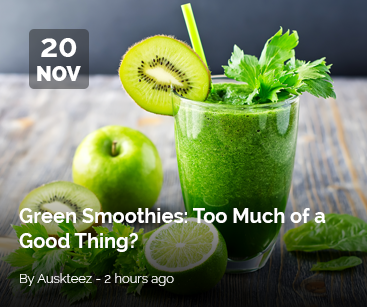
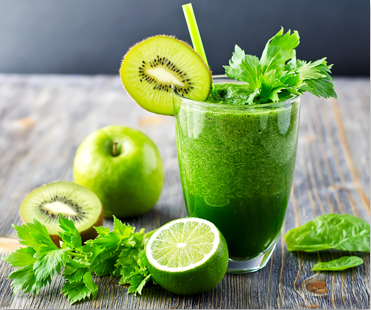
fix blog posts

diff --git a/index.html b/index.html
@@ -22,14 +22,14 @@
                         <div class="hamburger"></div>
                     </nav>
                 </header>
-                <h2 class="home__title">Fresh Life</h2>
+                <h2 class="section__header header--bold">Fresh Life</h2>
                 <p>Sed do eiusmod tempor incididunt ut labore et dolore magna aliqua. Ut enim ad minim veniam, quis nostrud exercitation ullamco.</p>
                 <a href="#" class="button button--orange">Get free now</a>
             </div>
         </section>
         <section class="about-us">
             <div class="section-box">
-                <h2 class="about-us__title">About Us</h2>
+                <h2 class="section__header">About Us</h2>
                 <p class="about-us__description">Abore Cahee magna aliqua. Ut enim ad minim veniam, quis nostrud exercitation ullamco laboris nisi ut aliquip ex ea commodo consequat. Duis aute irure dolor in reprehenderit in voluptate velit esse cillum.</p>
                 <p class="about-us__description">
                 Nim id est laborum. Sed ut perspiciatis unde omnis iste natus error sit voluptatem accusantium doloremque laudantium, totam rem aperiam, eaque ipsa quae ab illo inventore.</p>
@@ -38,7 +38,7 @@
         </section>
         <section class="services">
             <div class="section-box">
-                <h2 class="services__title">Our Services</h2>
+                <h2 class="section__header header--white">Our Services</h2>
                 <ul class="services__list">
                     <li class="services__item"><span class="list__text">Online Shopping</span><img src="img/services-icon-1.png" class="list__icon"></li>
                     <li class="services__item"><span class="list__text">Quality Product</span><img src="img/services-icon-2.png" class="list__icon"></li>
@@ -50,7 +50,7 @@
         </section>
         <section class="gallery">
             <div class="section-box">
-                <h2 class="gallery__title">Gallery</h2>
+                <h2 class="section__header">Gallery</h2>
                 <p class="gallery__description">
                 Consectetur adipisicing elit, sed do eiusmod tempor incididunt ut labore et dolore magna aliqua. Ut enim ad minim veniam, quis nostrud exercitation ullamco laboris nisi ut aliquip ex ea commodo consequat.</p>
                 <ul class="gallery__list">
@@ -65,7 +65,7 @@
         </section>
         <section class="subscribe">
             <div class="section-box">
-                <h2 class="subscribe__title">Subscribe To Us</h2>
+                <h2 class="section__header">Subscribe To Us</h2>
                 <p class="subscribe__description">
                 Consectetur adipisicing elit, sed do eiusmod tempor incididunt ut labore et dolore magna aliqua. Ut enim ad minim veniam, quis nostrud exercitation ullamco laboris nisi ut aliquip ex ea commodo consequat.</p>
                 <form name="subscribe-form">
@@ -79,18 +79,41 @@
         </section>
         <section class="blog">
             <div class="section-box">
-                <h2 class="blog__title">Blog</h2>
+                <h2 class="section__header">Blog</h2>
                 <p class="blog__description">
                 Dolore magna aliqua. Ut enim ad minim veniam, quis nostrud exercitation ullamco laboris nisi ut aliquip ex ea commodo consequat. Duis aute irure dolor in reprehenderit in voluptate velit.</p>
-                <div class="blog__blog-post"><img src="img/blog-post-1.png" class="blog-post__image"></div>
-                <div class="blog__blog-post"><img src="img/blog-post-2.png" class="blog-post__image"></div>
-                <div class="blog__blog-post"><img src="img/blog-post-3.png" class="blog-post__image"></div>
+                <div class="blog__blog-post post--first">
+                    <div class="blog-post__date">
+                        <p class="blog-post__day">20</p>
+                        <p class="blog-post__month">NOV</p>
+                    </div>
+                    <p class="blog-post__title">Green Smoothies: Too Much of a Good Thing?</p>
+                    <p class="blog-post__author">By Rafonix - 2 hours ago</p>
+                </div>
+                
+                <div class="blog__blog-post post--second">
+                    <div class="blog-post__date">
+                        <p class="blog-post__day">14</p>
+                        <p class="blog-post__month">NOV</p>
+                    </div>
+                    <p class="blog-post__title">Growing Food and a "Thirst" for Innovation</p>
+                    <p class="blog-post__author">By Rafonix - 3 hours ago</p>
+                </div>
+                
+                <div class="blog__blog-post post--third">
+                    <div class="blog-post__date">
+                        <p class="blog-post__day">10</p>
+                        <p class="blog-post__month">NOV</p>
+                    </div>
+                    <p class="blog-post__title">Pesticides &amp; Food: What You Need to Know</p>
+                    <p class="blog-post__author">By Rafonix - 6 hours ago</p>
+                </div>
                 <a href="#" class="button button--red">View more</a>
             </div>
         </section>
         <section class="contact">
             <div class="section-box">
-                <h2 class="contact__title">Contact</h2>
+                <h2 class="section__header">Contact</h2>
                 <p class="contact__description">
                 For new projects, ideas, business or anything you'd like to discuss, contact with me!</p>
                 <div class="contact__details">

diff --git a/style.css b/style.css
@@ -23,6 +23,19 @@ h2 {
     max-width: 37.5em;
 }
 
+.section__header {
+    font-size: 2.5em;
+    text-align: center;
+}
+
+.header--bold {
+    font-weight: 800;
+}
+
+.header--white {
+    color: #fff;
+}
+
 .home {
     background: url(img/background.jpg) no-repeat center top / cover;
     height: 100vh;
@@ -46,13 +59,6 @@ h2 {
     font-weight: 500;
     text-align: center;
     margin-top: -0.5em;
-}
-
-.home__title {
-    font-size: 2em;
-    font-weight: 900;
-    text-align: center;
-    margin-bottom: 0.25em;
 }
 
 .button {
@@ -96,11 +102,6 @@ h2 {
     color: #fff;
 }
 
-.about-us__title {
-    font-size: 3em;
-    margin: 0;
-}
-
 .about-us__description {
     font-weight: 300;
 }
@@ -113,12 +114,6 @@ h2 {
     background: #70bfff;
     text-align: center;
     font-weight: 700;
-}
-
-.services__title {
-    color: #fff;
-    font-size: 2.5em;
-    margin: 0;
 }
 
 .services__list {
@@ -155,10 +150,6 @@ h2 {
     text-align: center;
 }
 
-.gallery__title {
-    font-size: 2.5em;
-}
-
 .gallery__description {
     font-weight: 300;
 }
@@ -188,10 +179,6 @@ h2 {
     text-align: center;
 }
 
-.subscribe__title {
-    font-size: 2em;
-}
-
 .subscribe__description {
     font-weight: 300;
     width: 70%;
@@ -216,21 +203,64 @@ h2 {
     color: #fff;
 }
 
-.blog__title {
-    font-size: 2em;
-}
-
 .blog__description {
     font-weight: 300;
 }
 
 .blog__blog-post {
-    margin: 1em 0;
+    margin: 1em auto;
+    max-width: 370px;
+    width: 100%;
+    height: 100%;
+    min-height: 307px;
+    box-shadow: inset 0 -125px 70px -20px rgba(0, 0, 0, 0.65), 0px 5px 20px -5px #000;
 }
 
-.blog-post__image {
-    width: 100%;
-    box-shadow: 0px 5px 20px -5px #000;
+.post--first {
+    background: url("img/blog-post-1.png");
+}
+
+.post--second {
+    background: url("img/blog-post-2.png");
+}
+
+.post--third {
+    background: url("img/blog-post-3.png");
+}
+
+.blog-post__date {
+    position: relative;
+    left: 1em;
+    top: 1em;
+    font-weight: 900;
+    font-size: 1.5em;
+    width: 2.75em;
+    height: 2.75em;
+    background-color: rgba(0, 0, 0, 0.3);
+    border-radius: 5px;
+    display: flex;
+    flex-direction: column;
+    justify-content: center;
+}
+
+.blog-post__day {
+    margin: 0;
+}
+
+.blog-post__month {
+    margin: -5px 0 0;
+}
+
+.blog-post__title {
+    font-weight: 700;
+    font-size: 1.35em;
+    text-align: left;
+    margin: 5.5em 1em 0;
+}
+
+.blog-post__author {
+    margin: 1em 1em;
+    text-align: left;
 }
 
 .visuallyhidden {
@@ -247,10 +277,6 @@ h2 {
 .contact {
     background: url(img/contact.png) no-repeat center top / cover;
     text-align: center;
-}
-
-.contact__title {
-    font-size: 2em;
 }
 
 .contact__description {
